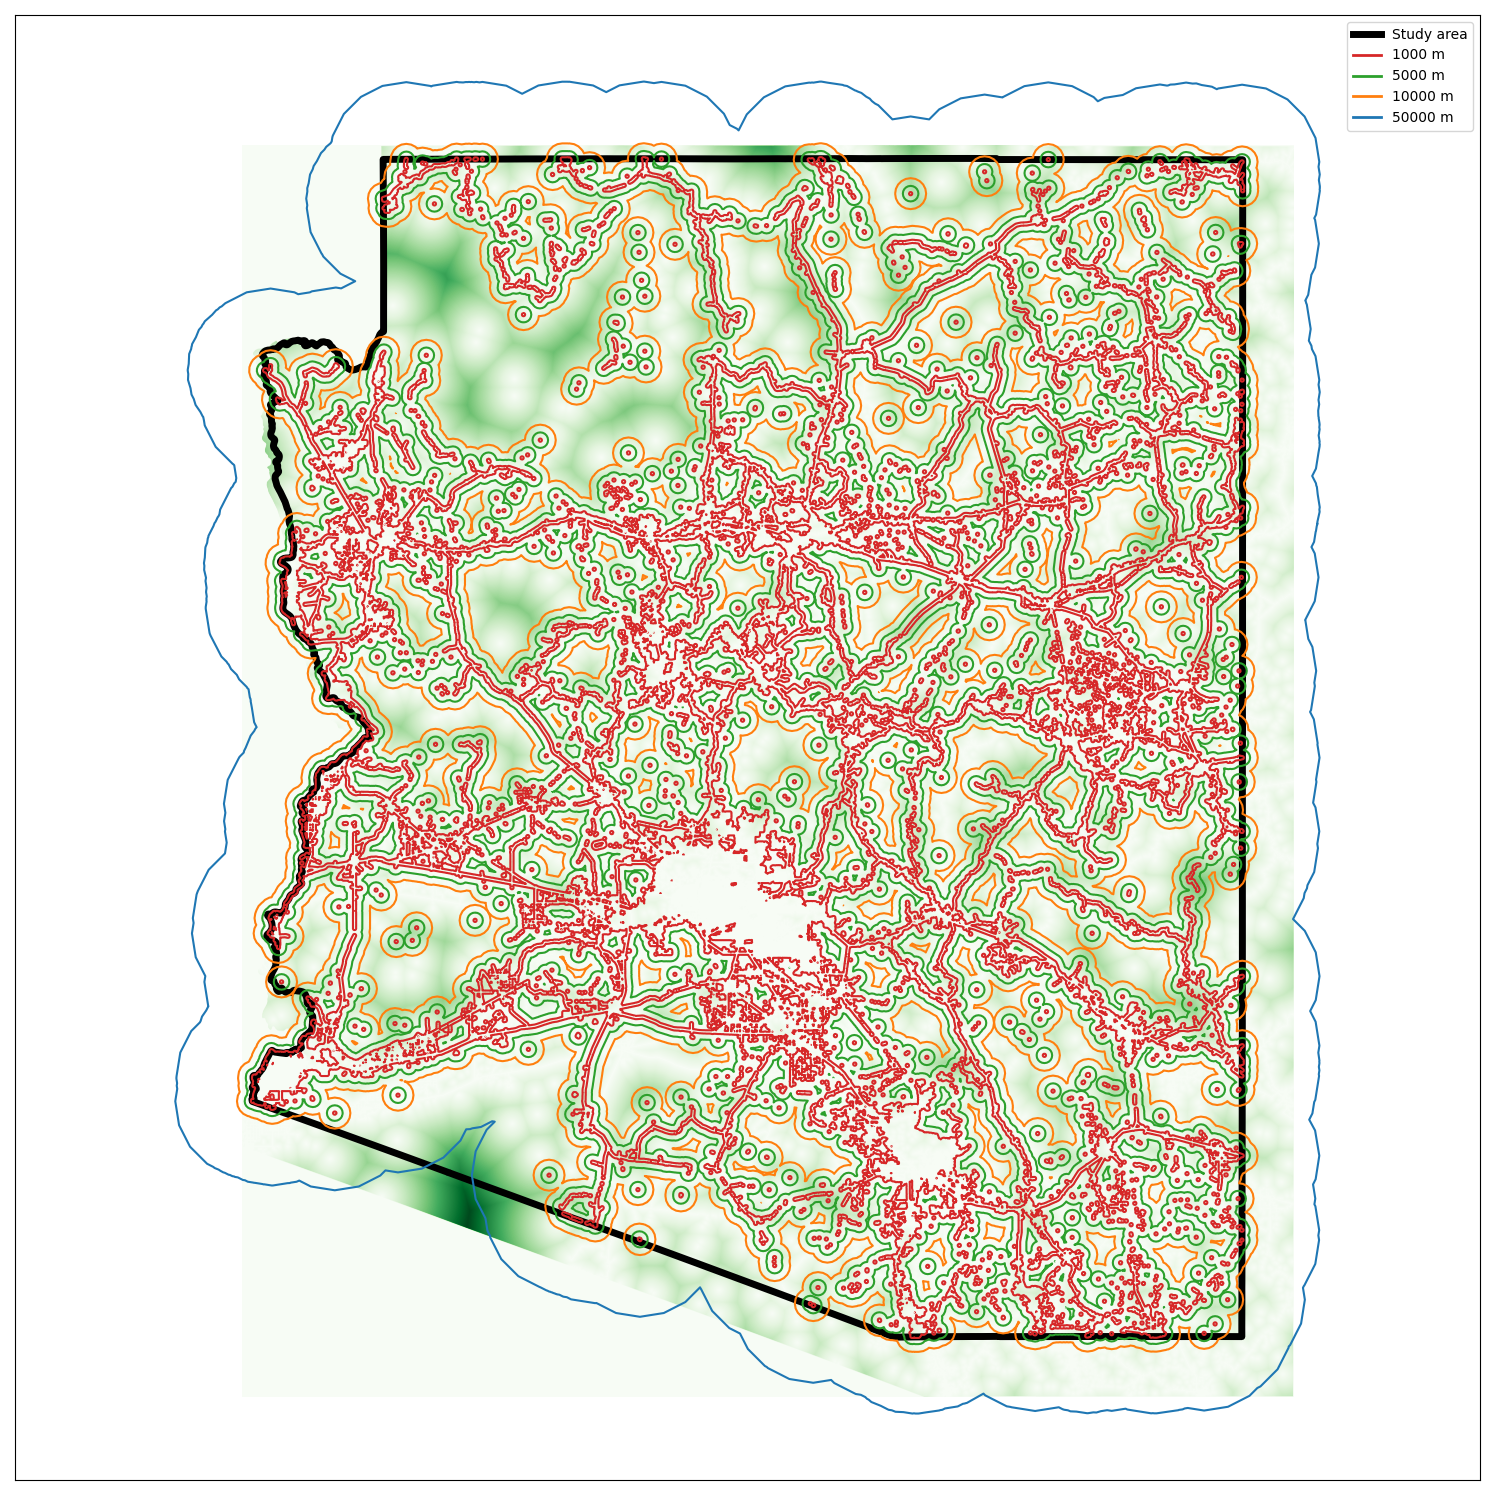
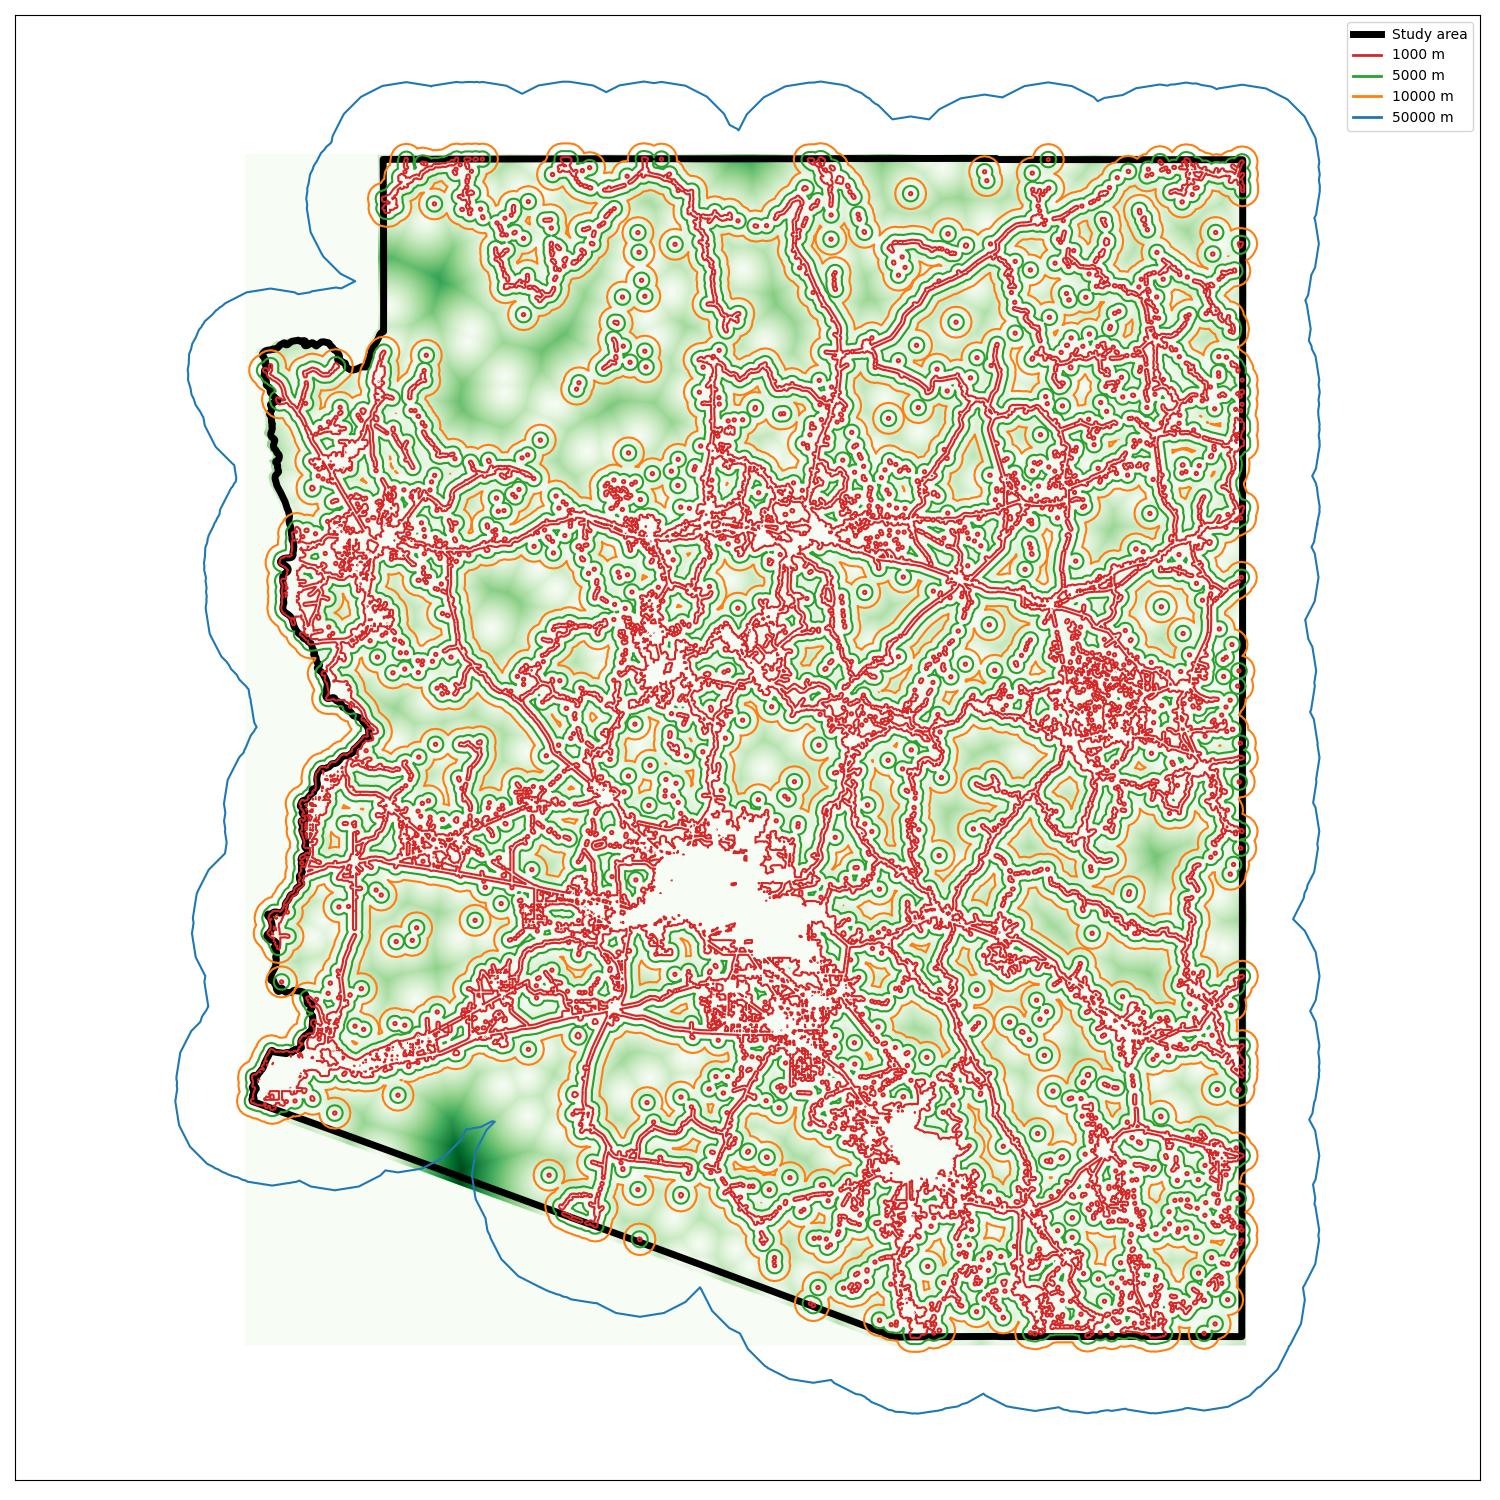
Update residential_areas

diff --git a/other/residential_areas/plot.py b/other/residential_areas/plot.py
@@ -19,8 +19,8 @@ with rio.open('data/residential_prox.tif') as f:
 show(prox, ax=ax1, cmap='Greens')
 
 # manually figured out with trial and error
-ax1.set_xlim((-3850, 21000))
-ax1.set_ylim((26000, -5580))
+ax1.set_xlim((-4100, 22000))
+ax1.set_ylim((26000, -4880))
 
 cmap = cm.get_cmap('tab10')
 dists = list(reversed(['1000', '5000', '10000', '50000']))
